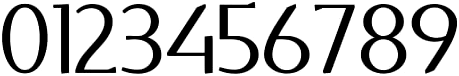
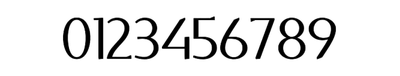
Use a compact stepper with optically scaled numeral specimens

diff --git a/src/components/Configurator.tsx b/src/components/Configurator.tsx
@@ -2,7 +2,7 @@
 
 import { useEffect } from 'react';
 import { useRouter, useSearchParams } from 'next/navigation';
-import { Box, ShoppingBag } from 'lucide-react';
+import { Box, ChevronLeft, ChevronRight, ShoppingBag } from 'lucide-react';
 import Link from 'next/link';
 import Breadcrumbs, { catalogCrumb } from './Breadcrumbs';
 import DiceViewer from './DiceViewer';
@@ -39,6 +39,11 @@ export default function Configurator() {
     next.set(key, value);
     window.history.replaceState(null, '', `?${next}`);
   };
+  const stepFont = (direction: -1 | 1) => {
+    const { font } = configFromParams(new URLSearchParams(window.location.search));
+    const index = fontStyles.indexOf(font);
+    change('font', fontStyles[(index + direction + fontStyles.length) % fontStyles.length]);
+  };
   const createRandomDice = () => {
     const next = new URLSearchParams(diceQuery(randomDiceConfig(Math.random, config.shell)));
     if (preset) next.set('preset', preset.id);
@@ -47,7 +52,7 @@ export default function Configurator() {
   const addCustom = () => { if (add(config, { kind: 'preorder_custom' })) router.push('/cart'); };
 
   const price = formatPrice(priceForConfig(config));
-  const summary = `${config.shape.toUpperCase()} · ${shellColors.find(color => color.value === config.shell)?.name ?? ""} · ${fontNames[config.font]}`;
+  const summary = `${config.shape.toUpperCase()} · ${shellColors.find(color => color.value === config.shell)?.name ?? ""}`;
 
   return <section className="wrapper section page-section configure-page">
     <Breadcrumbs current="Собери сам" ancestors={preset ? [catalogCrumb, {
@@ -85,13 +90,15 @@ export default function Configurator() {
         </div>
         <div className="field stack">
           <h2 id="dice-font">Шрифт</h2>
-          <div className="option-list font-options" role="group" aria-labelledby="dice-font">
-            {fontStyles.map(font => (
-              <button key={font} type="button" aria-pressed={config.font === font} onClick={() => change('font', font)}>
-                <span>{fontNames[font]}</span>
-                <img className="numeral-sample" src={`${process.env.NEXT_PUBLIC_BASE_PATH || ''}/numerals/${font}-sample.webp`} alt="" width={104} height={20} />
-              </button>
-            ))}
+          <div className="font-picker" role="group" aria-labelledby="dice-font">
+            <button type="button" aria-label="Предыдущий шрифт" onClick={() => stepFont(-1)}>
+              <ChevronLeft className="icon" aria-hidden="true" />
+            </button>
+            <img className="numeral-sample" src={`${process.env.NEXT_PUBLIC_BASE_PATH || ''}/numerals/${config.font}-sample.webp`} alt="" width={400} height={76} />
+            <button type="button" aria-label="Следующий шрифт" onClick={() => stepFont(1)}>
+              <ChevronRight className="icon" aria-hidden="true" />
+            </button>
+            <span className="visually-hidden" role="status">{fontNames[config.font]}</span>
           </div>
         </div>
         <p className="configure-price">{price}</p>

diff --git a/src/styles/pages.css b/src/styles/pages.css
@@ -127,20 +127,31 @@
     outline-offset: 3px;
   }
 
-  .font-options { border-block-start: var(--border-default); }
-  .font-options button {
+  .font-picker {
     display: grid;
-    grid-template-columns: minmax(0, 1fr) min(36%, 6.5rem);
+    grid-template-columns: 2.75rem minmax(0, 1fr) 2.75rem;
     align-items: center;
-    gap: var(--space-1);
-    inline-size: 100%;
-    padding: var(--space-1);
-    text-align: start;
-    border-block-end: var(--border-default);
+    align-self: center;
+    column-gap: var(--space-1);
+    inline-size: min(100%, 22rem);
+    min-block-size: 4.5rem;
   }
-  .font-options button:is([aria-pressed="true"], :hover) { background: var(--color-surface); }
-  .font-options button[aria-pressed="true"] { box-shadow: inset 2px 0 var(--color-text); }
-  .numeral-sample { inline-size: 100%; block-size: auto; }
+  .font-picker button {
+    display: grid;
+    place-items: center;
+    block-size: 2.75rem;
+    border: var(--border-default);
+    border-radius: var(--radius-full);
+    color: inherit;
+    background: transparent;
+  }
+  .font-picker button:hover { background: var(--color-surface); }
+  .font-picker .icon { --icon-size: 1.25rem; }
+  .numeral-sample {
+    justify-self: center;
+    inline-size: min(100%, 12.5rem);
+    block-size: auto;
+  }
   .configure-price { font-size: var(--fs-title); font-weight: 800; }
 
   @media (width > 56rem) {
@@ -173,31 +184,6 @@
     .configure-controls > .button-fill { inline-size: auto; }
     .shape-options { grid-template-columns: repeat(7, minmax(0, 1fr)); }
     .color-options .swatch { inline-size: 2.25rem; block-size: 2.25rem; }
-    .font-options {
-      display: grid;
-      grid-template-columns: repeat(3, minmax(0, 1fr));
-      gap: var(--space-1);
-      border: 0;
-    }
-    .font-options button {
-      display: flex;
-      flex-direction: column-reverse;
-      justify-content: flex-end;
-      align-items: flex-start;
-      gap: 0.125rem;
-      min-block-size: 3.5rem;
-      padding-block: 0.375rem;
-      border: var(--border-default);
-      border-radius: var(--radius-sm);
-      overflow-wrap: anywhere;
-    }
-    .font-options button[aria-pressed="true"] { border-color: var(--color-text); box-shadow: none; }
-    .font-options .numeral-sample {
-      max-inline-size: 6.5rem;
-      block-size: 1.25rem;
-      object-fit: contain;
-      object-position: left center;
-    }
   }
 
   .cart-page { --stack-space: 1.5rem; }
